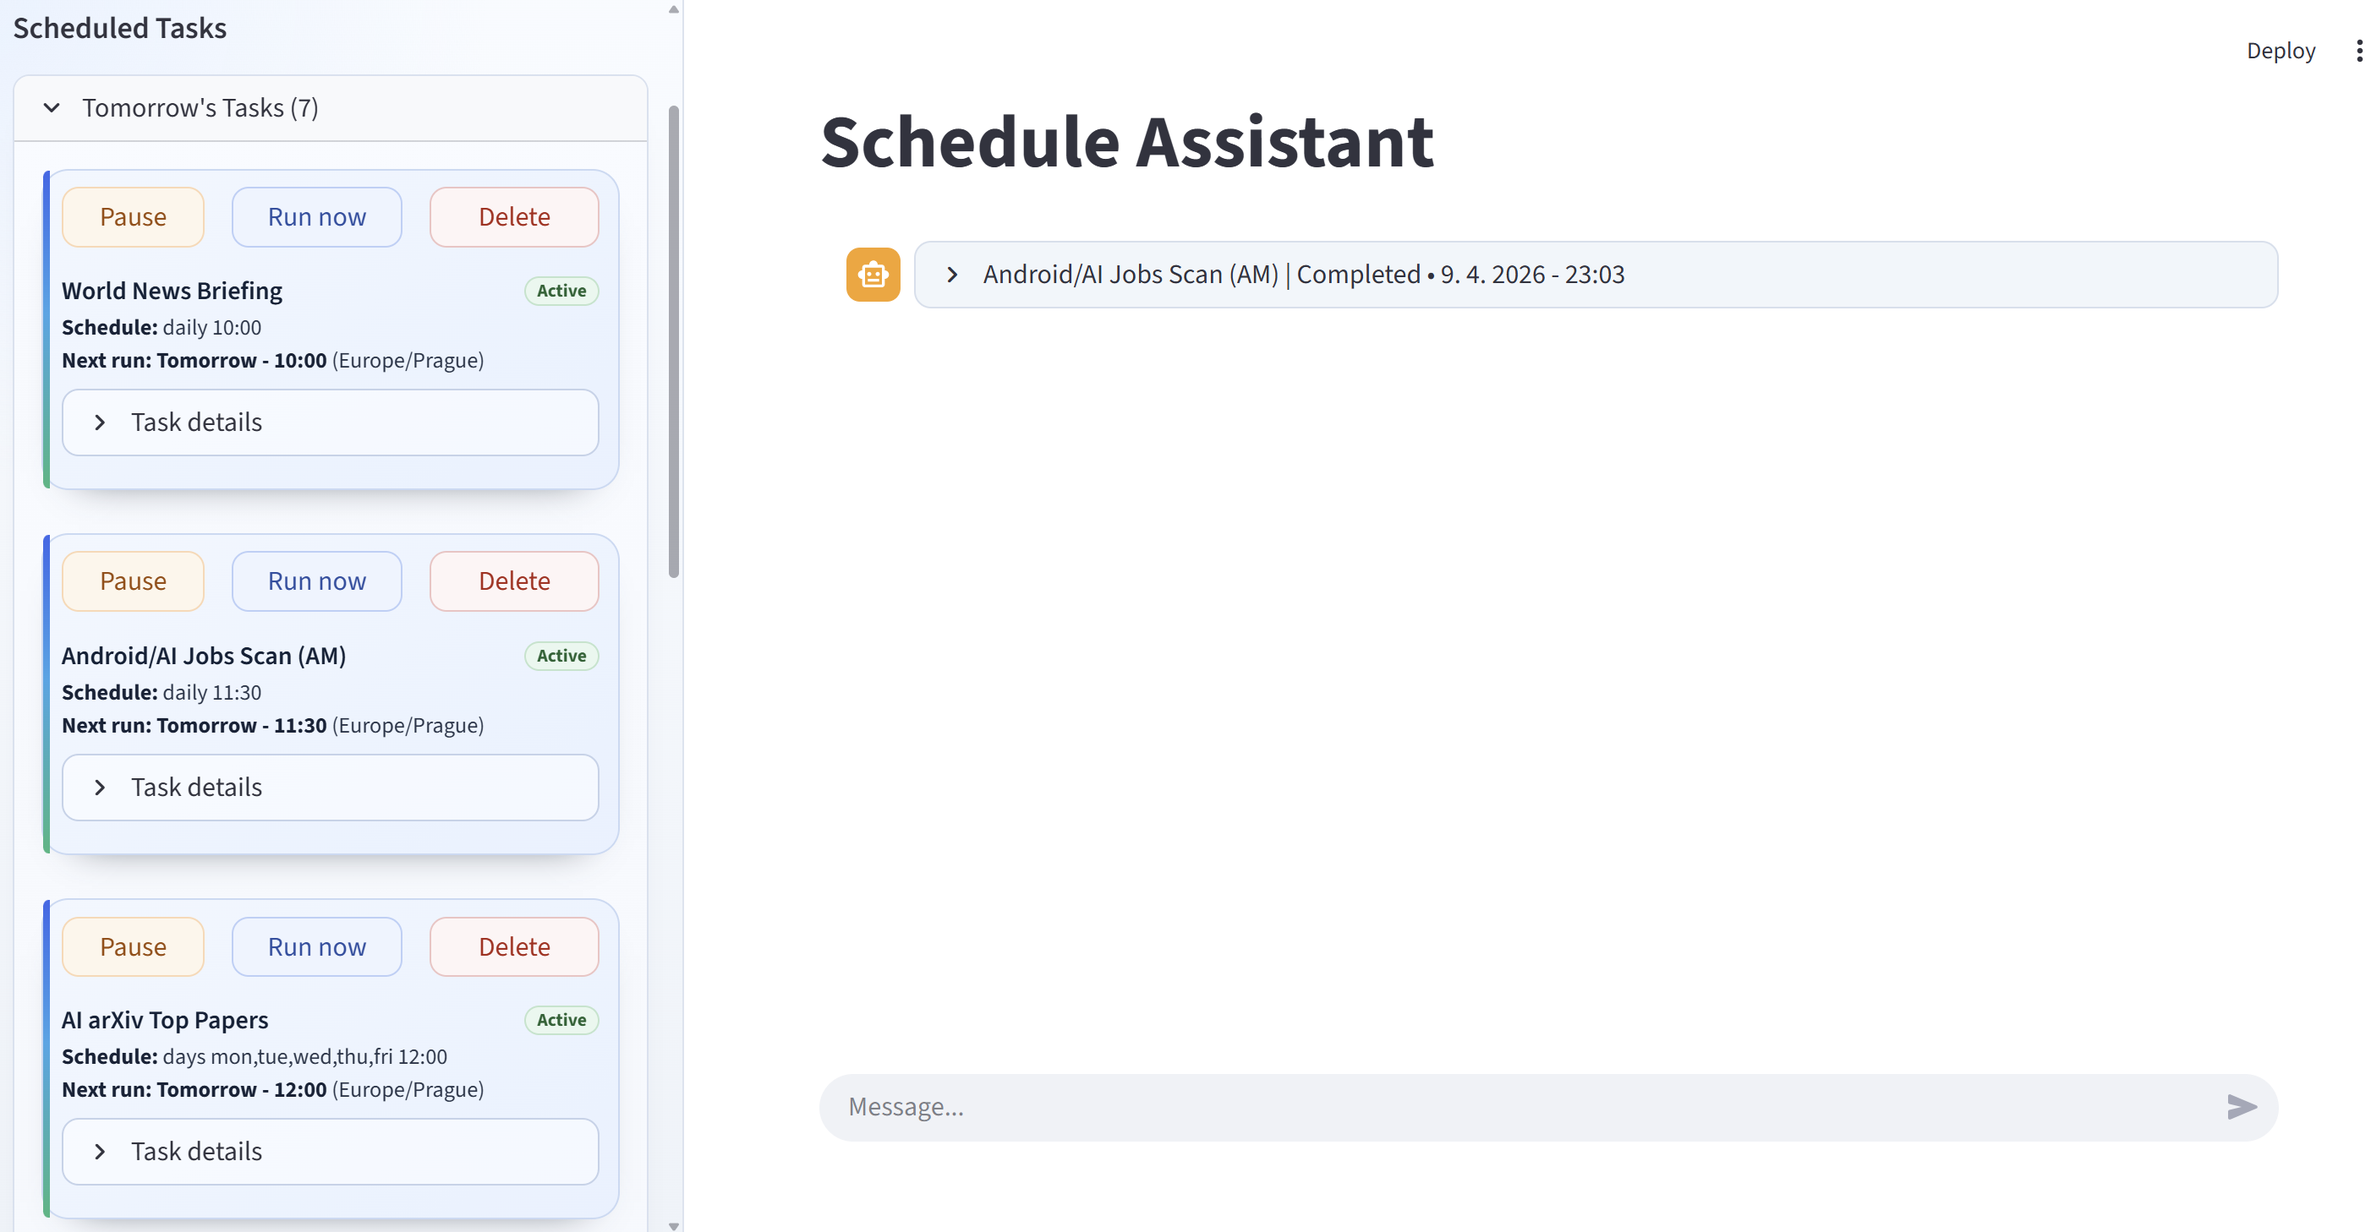
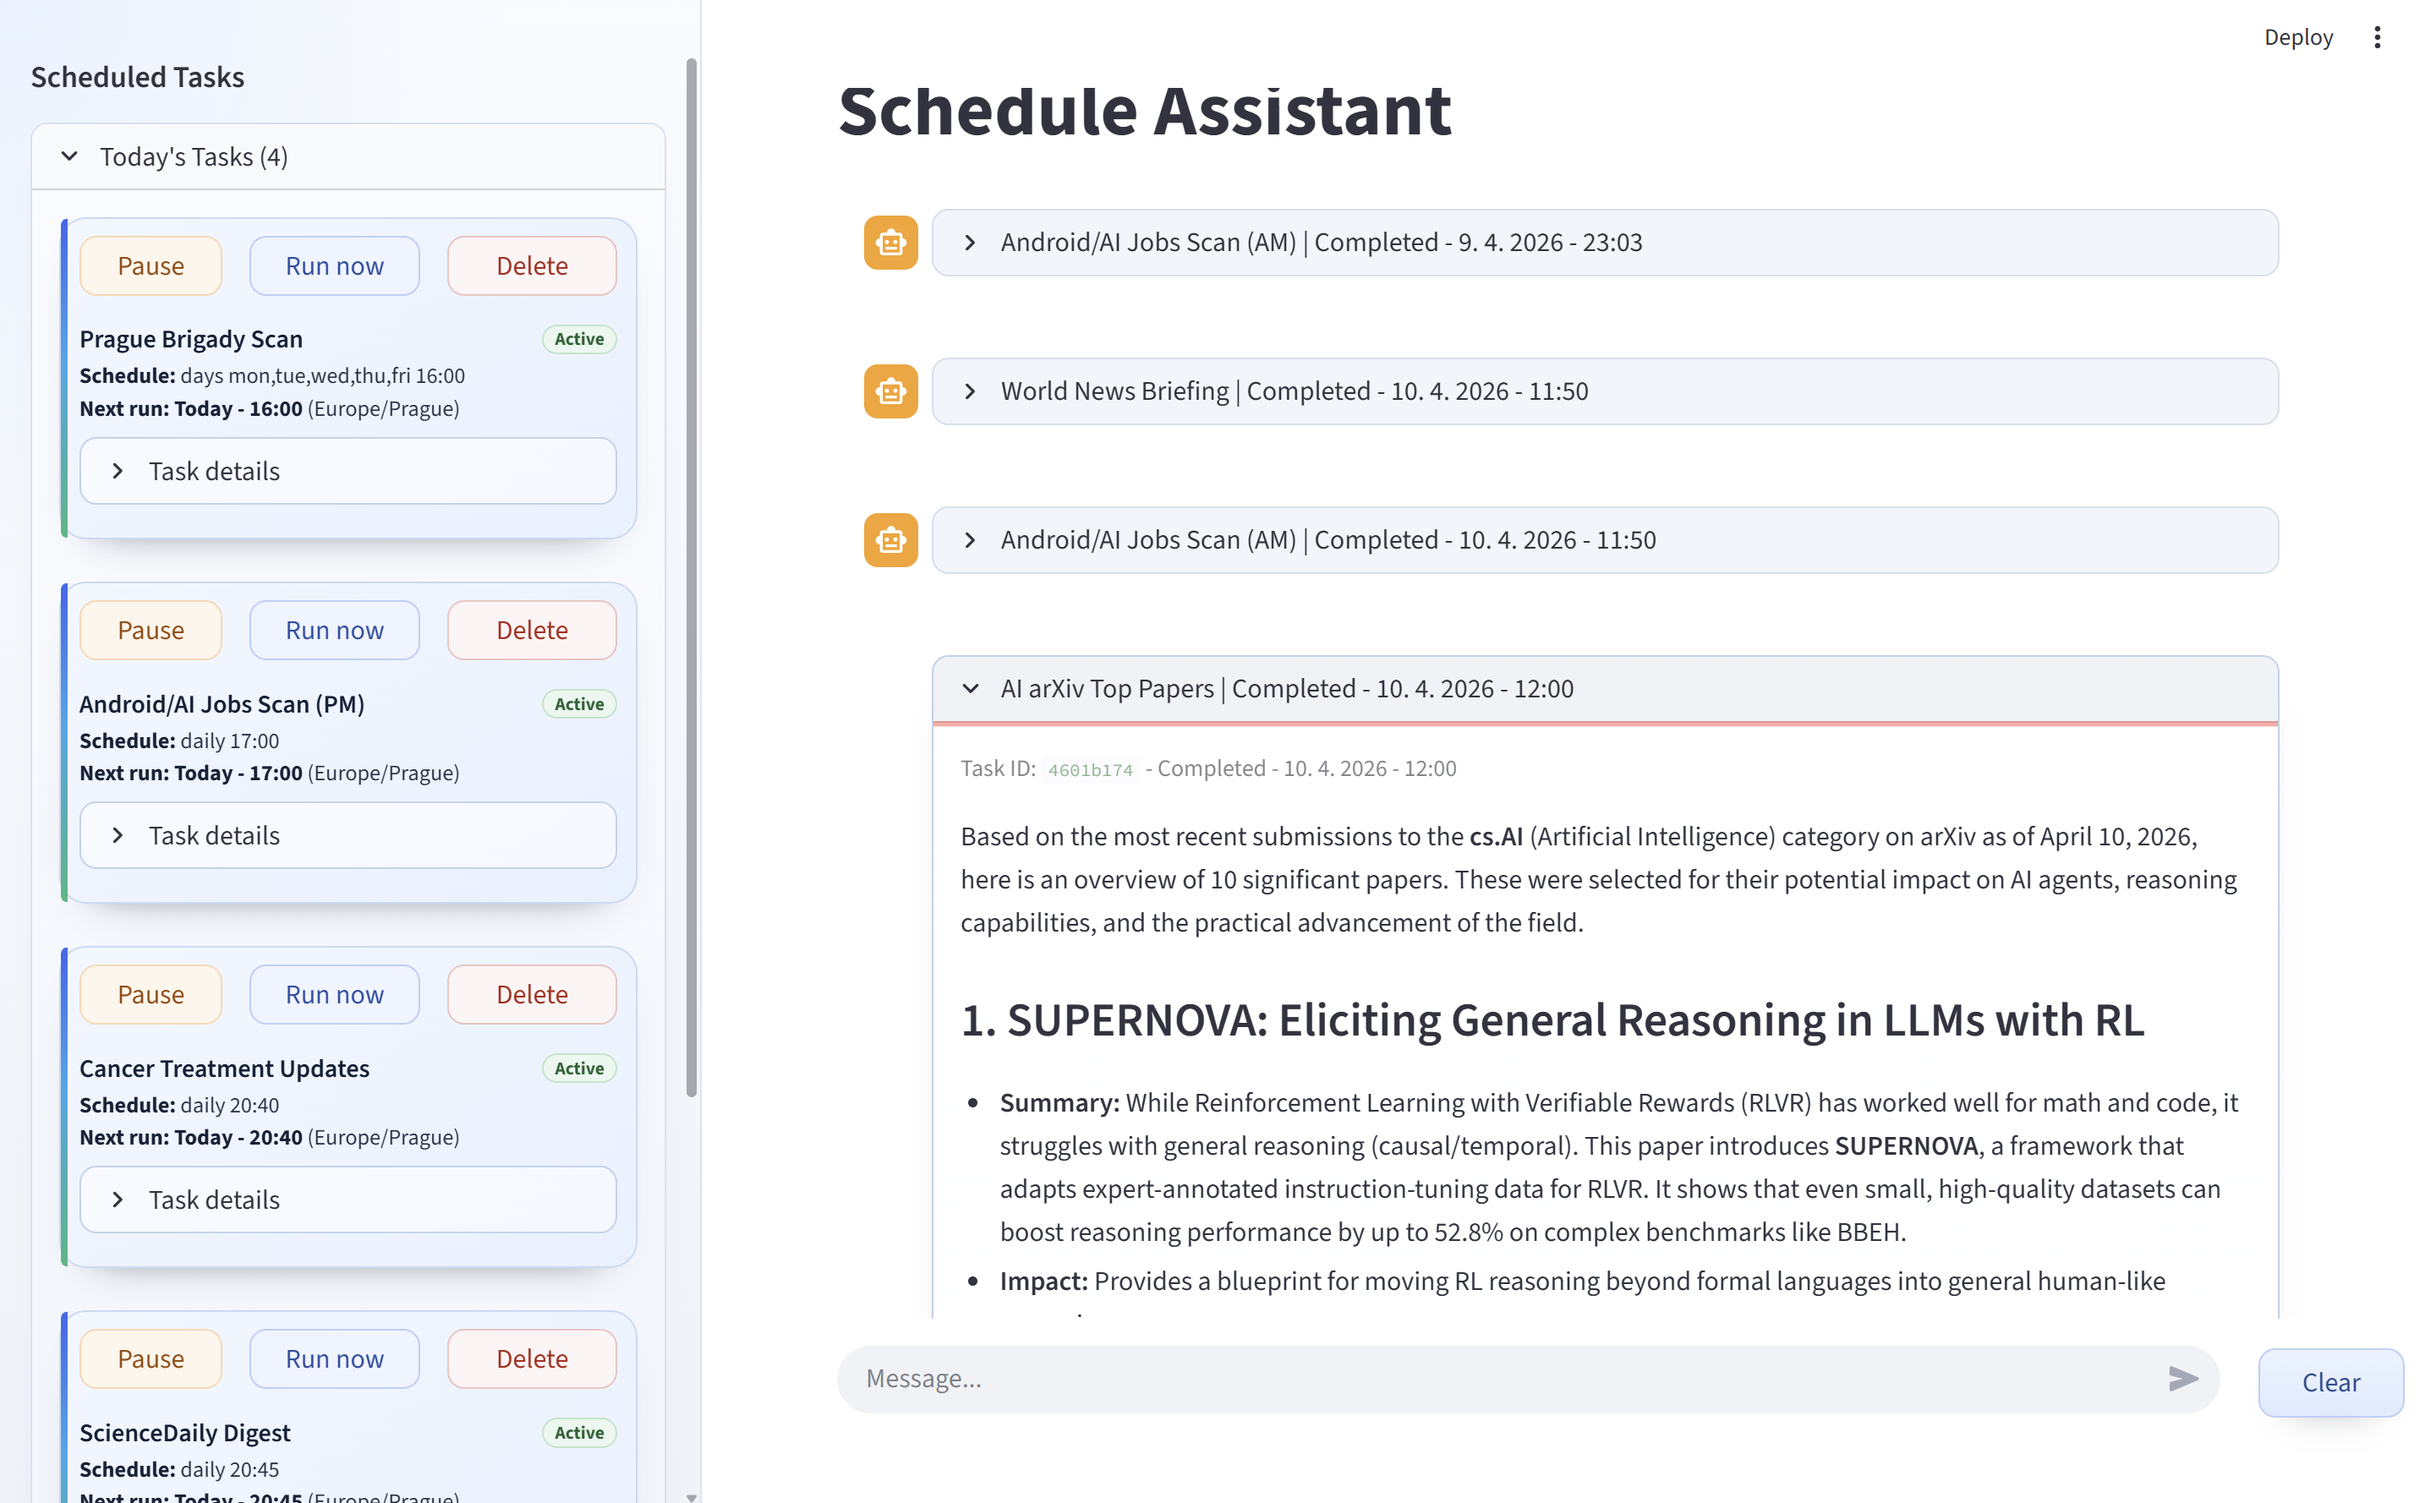
Fix scheduled event dedupe and polish chat input controls

diff --git a/app.py b/app.py
@@ -99,6 +99,11 @@ trim_session_histories()
 
 if "last_event_id" not in st.session_state:
     st.session_state.last_event_id = runtime.store.get_processed_event_id()
+else:
+    # Keep each browser session in sync with the globally processed event cursor.
+    persisted_processed_event_id = runtime.store.get_processed_event_id()
+    if persisted_processed_event_id > st.session_state.last_event_id:
+        st.session_state.last_event_id = persisted_processed_event_id
 
 if "unread_scheduled_result_ids" not in st.session_state:
     st.session_state.unread_scheduled_result_ids = set()
@@ -111,15 +116,6 @@ header_placeholder = st.empty()
 render_page_header(header_placeholder, EMPTY_CHAT_SUBTITLE, bool(st.session_state.messages))
 
 with st.sidebar:
-    with st.container(border=False, key="clear_conversation_shell"):
-        button_col, _ = st.columns([0.85, 2.15])
-        with button_col:
-            if st.button("Clear chat", key="clear_conversation_button", type="secondary"):
-                runtime.store.clear_chat_messages()
-                st.session_state.messages = []
-                st.session_state.agent_messages = []
-                st.rerun()
-
     st.subheader("Scheduled Tasks")
 
     tasks = runtime.store.list_tasks()
@@ -150,11 +146,21 @@ should_auto_refresh = bool(tasks or st.session_state.manual_run_statuses)
 
 
 new_events = runtime.store.get_events_after(st.session_state.last_event_id)
+known_scheduled_event_ids = {
+    str(message.get("scheduled_event_id", "")).strip()
+    for message in st.session_state.messages
+    if isinstance(message, dict)
+    and str(message.get("message_type", "")).strip().lower() == "scheduled"
+    and str(message.get("scheduled_event_id", "")).strip()
+}
 for event in new_events:
     if event.get("type") != "scheduled_task_result":
         continue
 
     scheduled_event_id = str(event.get("id", ""))
+    if scheduled_event_id in known_scheduled_event_ids:
+        continue
+
     result_text = str(event.get("message", "") or "")
     task_title = " ".join(str(event.get("task_title", "")).split()).strip()
     scheduled_message = {
@@ -178,6 +184,7 @@ for event in new_events:
             "task_title": scheduled_message["task_title"],
         },
     )
+    known_scheduled_event_ids.add(scheduled_event_id)
     st.session_state.manual_run_statuses.pop(str(event.get("task_id", "")), None)
     st.session_state.unread_scheduled_result_ids.add(scheduled_event_id)
     send_windows_os_alert(
@@ -205,8 +212,14 @@ for index, message in enumerate(st.session_state.messages):
             if should_render_tool_calls(message):
                 render_tool_calls_panel(message.get("tool_calls"))
 
+prompt = st.chat_input("Message...", key="main_chat_input")
+with st.container(border=False, key="clear_chat_bottom_shell"):
+    if st.button("Clear", key="clear_chat_main_button", type="secondary", use_container_width=True):
+        runtime.store.clear_chat_messages()
+        st.session_state.messages = []
+        st.session_state.agent_messages = []
+        st.rerun()
 
-prompt = st.chat_input("Message...")
 if prompt:
     append_message({"role": "user", "content": prompt})
 

diff --git a/runtime_store.py b/runtime_store.py
@@ -114,6 +114,20 @@ class StateStore:
                 normalized_task["title"] = title
             normalized_tasks.append(normalized_task)
         state["tasks"] = normalized_tasks
+        normalized_messages: List[Dict[str, Any]] = []
+        seen_scheduled_event_ids: set[str] = set()
+        for message in state.get("chat_messages", []):
+            if not isinstance(message, dict):
+                continue
+            normalized_message = dict(message)
+            message_type = str(normalized_message.get("message_type", "")).strip().lower()
+            scheduled_event_id = str(normalized_message.get("scheduled_event_id", "")).strip()
+            if message_type == "scheduled" and scheduled_event_id:
+                if scheduled_event_id in seen_scheduled_event_ids:
+                    continue
+                seen_scheduled_event_ids.add(scheduled_event_id)
+            normalized_messages.append(normalized_message)
+        state["chat_messages"] = normalized_messages[-MAX_CHAT_MESSAGES:]
         return state
 
     def _read_state(self) -> Dict[str, Any]:
@@ -296,6 +310,16 @@ class StateStore:
                 for key, value in extra_fields.items():
                     if value is not None:
                         message[str(key)] = value
+            if str(message.get("message_type", "")).strip().lower() == "scheduled":
+                scheduled_event_id = str(message.get("scheduled_event_id", "")).strip()
+                if scheduled_event_id:
+                    for existing in state.get("chat_messages", []):
+                        if not isinstance(existing, dict):
+                            continue
+                        existing_type = str(existing.get("message_type", "")).strip().lower()
+                        existing_event_id = str(existing.get("scheduled_event_id", "")).strip()
+                        if existing_type == "scheduled" and existing_event_id == scheduled_event_id:
+                            return
             state["chat_messages"].append(message)
             # Keep a bounded chat history to prevent unbounded state growth.
             state["chat_messages"] = state["chat_messages"][-MAX_CHAT_MESSAGES:]

diff --git a/ui/chat_ui.py b/ui/chat_ui.py
@@ -1,4 +1,4 @@
-from __future__ import annotations
+from __future__ import annotations
 
 import json
 from html import escape
@@ -71,10 +71,10 @@ def scheduled_result_status_text(message: dict[str, Any]) -> str:
     status = str(message.get("scheduled_status", "") or "").strip().lower()
     created_at_text = format_event_timestamp(message.get("scheduled_created_at"))
     if status == "retry_scheduled":
-        return f"Retry planned • {created_at_text}"
+        return f"Retry planned - {created_at_text}"
     if status == "failed_no_retry":
-        return f"Failed, no retry • {created_at_text}"
-    return f"Completed • {created_at_text}"
+        return f"Failed, no retry - {created_at_text}"
+    return f"Completed - {created_at_text}"
 
 
 def render_scheduled_result_message(message: dict[str, Any], index: int) -> None:
@@ -95,16 +95,17 @@ def render_scheduled_result_message(message: dict[str, Any], index: int) -> None
     label_parts.append(status_text)
     expander_label = " | ".join(part for part in label_parts if part)
     container_state = "unread" if is_unread else "read"
+    key_suffix = f"{scheduled_event_id}_{index}"
 
-    with st.container(border=False, key=f"scheduled_result_{container_state}_{scheduled_event_id}"):
+    with st.container(border=False, key=f"scheduled_result_{container_state}_{key_suffix}"):
         with st.expander(expander_label, expanded=False):
             meta_bits = []
             task_id = str(message.get("task_id", "") or "").strip()
             if task_id:
                 meta_bits.append(f"Task ID: `{task_id}`")
             meta_bits.append(status_text)
-            st.caption(" • ".join(meta_bits))
-            if is_unread and st.button("Mark as read", key=f"mark_scheduled_read_{scheduled_event_id}"):
+            st.caption(" - ".join(meta_bits))
+            if is_unread and st.button("Mark as read", key=f"mark_scheduled_read_{key_suffix}"):
                 unread_ids.discard(scheduled_event_id)
                 st.rerun()
             st.markdown(str(message.get("content", "") or ""))

diff --git a/ui/styles.py b/ui/styles.py
@@ -25,6 +25,9 @@ APP_CSS = """
 [data-testid="stChatMessage"] [data-testid="stChatMessageContent"] {
     align-self: center;
 }
+[data-testid="stBottomBlockContainer"] {
+    padding-right: 7.2rem;
+}
 [data-testid="stExpander"] details {
     border-radius: 10px;
 }
@@ -298,22 +301,38 @@ div[class*="st-key-task_prompt_draft_"] textarea {
     color: #10233b;
     line-height: 1.35;
 }
-div[class*="st-key-clear_conversation_"] button {
-    border-radius: 10px;
-    border: 1px solid #cfd9e7;
-    background: rgba(255, 255, 255, 0.82);
-    color: #28415f;
-    min-height: 2.2rem;
-    padding: 0.18rem 0.85rem;
-    font-weight: 600;
-    box-shadow: 0 8px 18px -18px #1f2937;
+div[class*="st-key-clear_chat_bottom_shell"] {
+    position: fixed;
+    right: 1rem;
+    bottom: 3.35rem;
+    z-index: 1000;
+    width: 5.4rem;
 }
-div[class*="st-key-clear_conversation_"] button:hover {
-    border-color: #b8c9df;
-    background: #f7fbff;
-    color: #18314d;
+div[class*="st-key-clear_chat_main_"] button {
+    border-radius: 10px;
+    border: 1px solid #b9cff5;
+    background: linear-gradient(180deg, #eaf3ff 0%, #dceafe 100%);
+    color: #214b90;
+    min-height: 2.55rem;
+    padding: 0.18rem 0.7rem;
+    font-weight: 700;
+    box-shadow: 0 10px 20px -18px #1f2937;
+    white-space: nowrap;
+}
+div[class*="st-key-clear_chat_main_"] button:hover {
+    border-color: #9ebcf0;
+    background: linear-gradient(180deg, #deecff 0%, #cfdef8 100%);
+    color: #173e7c;
 }
 @media (max-width: 768px) {
+    [data-testid="stBottomBlockContainer"] {
+        padding-right: 6.1rem;
+    }
+    div[class*="st-key-clear_chat_bottom_shell"] {
+        right: 0.65rem;
+        bottom: 2.85rem;
+        width: 4.7rem;
+    }
     div[class*="st-key-taskcard_"] {
         padding: 0.58rem 0.62rem 0.54rem;
         margin-bottom: 0.54rem;
